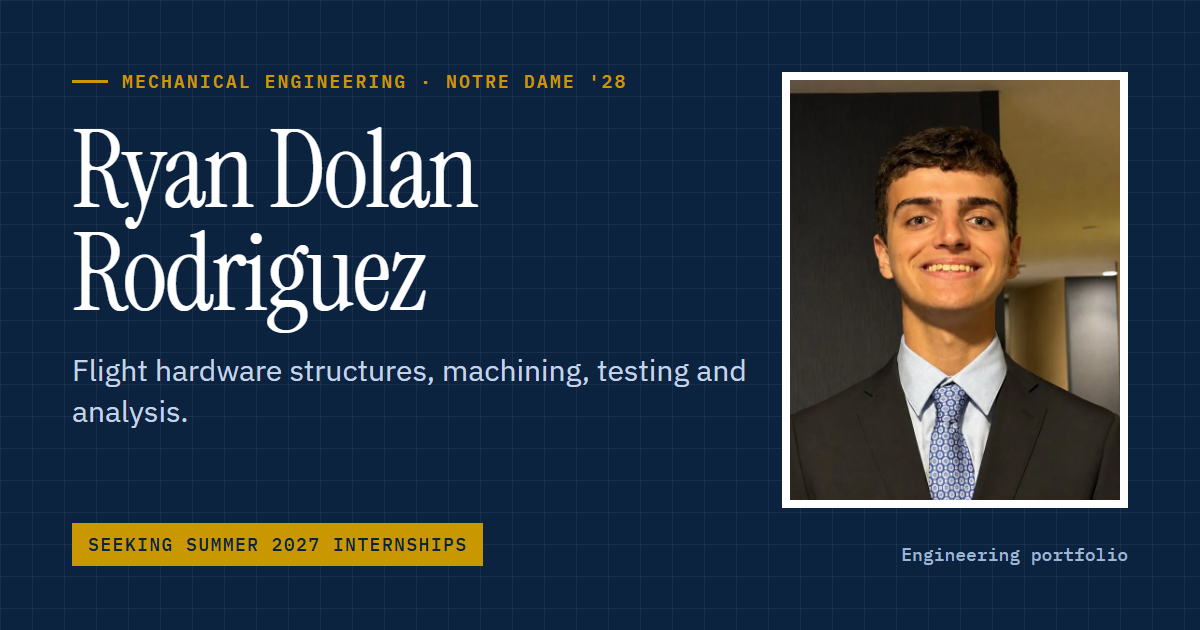
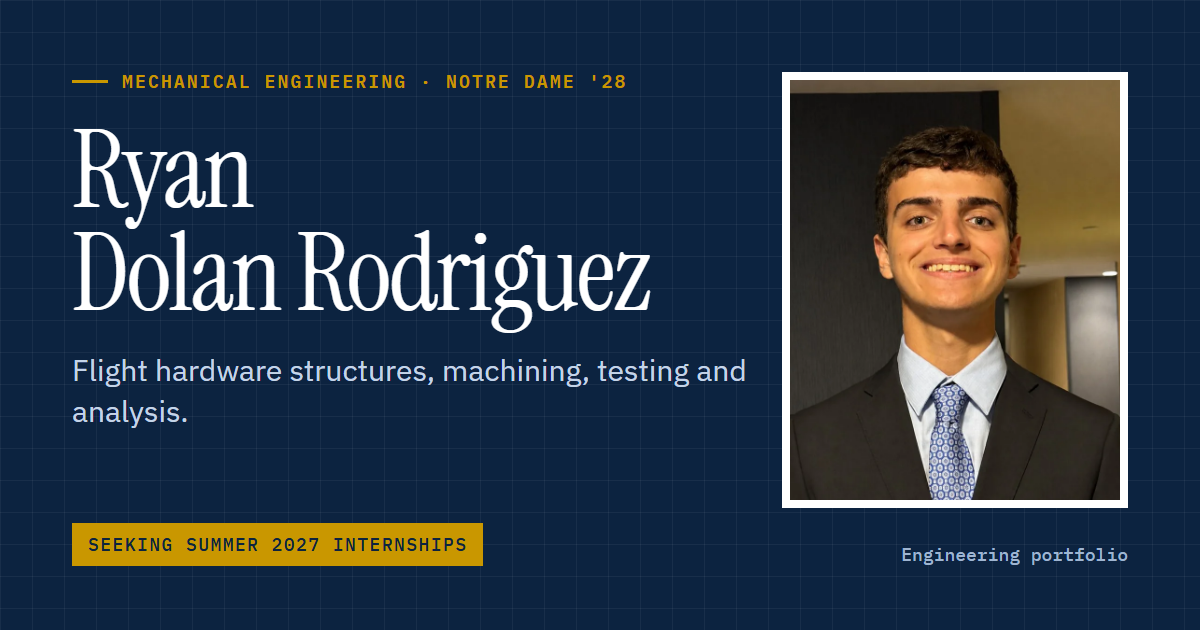
Hero name: 'Dolan Rodriguez' as one last name in the same font

Changed region(s): [[0.0617, 0.3619, 0.555, 0.5429], [0.2158, 0.181, 0.4008, 0.3317]]

diff --git a/index.html b/index.html
@@ -19,11 +19,11 @@
 <link rel="preconnect" href="https://fonts.googleapis.com">
 <link rel="preconnect" href="https://fonts.gstatic.com" crossorigin>
 <link href="https://fonts.googleapis.com/css2?family=IBM+Plex+Mono:wght@400;500;600&family=IBM+Plex+Sans:ital,wght@0,400;0,500;0,600;0,700;1,400&family=Instrument+Serif:ital@0;1&display=swap" rel="stylesheet">
-<link rel="stylesheet" href="css/site.css?v=202610132046">
-<meta name="build" content="202610132046">
+<link rel="stylesheet" href="css/site.css?v=202610132049">
+<meta name="build" content="202610132049">
 <script>document.documentElement.classList.add('js');
 // If this copy of the page is stale (browser cache), refresh it once from the server.
-(function(){var b='202610132046';try{if(sessionStorage.getItem('rd-refreshed')===b)return;}catch(e){}
+(function(){var b='202610132049';try{if(sessionStorage.getItem('rd-refreshed')===b)return;}catch(e){}
 fetch('version.json',{cache:'no-store'}).then(function(r){return r.json()}).then(function(d){
 if(d.v&&d.v!==b){try{sessionStorage.setItem('rd-refreshed',b)}catch(e){}
 fetch(location.href.split('#')[0],{cache:'reload'}).finally(function(){location.reload()})}}).catch(function(){})})();</script>
@@ -56,7 +56,7 @@ fetch(location.href.split('#')[0],{cache:'reload'}).finally(function(){location.
   <div class="hero__grid wrap">
     <div class="hero__text">
       <p class="eyebrow rise" style="--d:0">Mechanical Engineering · University of Notre Dame · Class of 2028</p>
-      <h1 class="hero__name rise" style="--d:1">Ryan Dolan <span class="hero__name-last">Rodriguez</span></h1>
+      <h1 class="hero__name rise" style="--d:1">Ryan <span class="hero__name-last">Dolan Rodriguez</span></h1>
       <p class="status rise" style="--d:3"><span class="status__dot" aria-hidden="true"></span>Seeking Summer 2027 internships</p>
       <div class="hero__cta rise" style="--d:4">
         <a class="btn btn--primary" href="Ryan_Dolan_Resume.pdf" target="_blank" rel="noopener">View résumé <span aria-hidden="true">↗</span></a>
@@ -489,6 +489,6 @@ fetch(location.href.split('#')[0],{cache:'reload'}).finally(function(){location.
   <button class="lightbox__nav lightbox__next" type="button" aria-label="Next figure">›</button>
 </dialog>
 
-<script src="js/site.js?v=202610132046" defer></script>
+<script src="js/site.js?v=202610132049" defer></script>
 </body>
 </html>

diff --git a/css/site.css b/css/site.css
@@ -62,7 +62,7 @@ ul,ol{margin:0; padding:0; list-style:none}
     var(--paper)}
 .hero__grid{display:grid; grid-template-columns:minmax(0,1fr) minmax(240px,340px); gap:clamp(28px,6vw,80px); align-items:end}
 .eyebrow{margin:0; font:500 13px/1.5 var(--mono); letter-spacing:.08em; text-transform:uppercase; color:var(--ink3)}
-.hero__name{font:400 clamp(56px,8.6vw,124px)/.92 var(--serif); letter-spacing:-.02em; color:var(--navy); margin:18px 0 0}
+.hero__name{font:400 clamp(50px,6.6vw,100px)/.95 var(--serif); letter-spacing:-.02em; color:var(--navy); margin:18px 0 0}
 .status{display:inline-flex; align-items:center; gap:10px; margin:24px 0 0; padding:8px 14px 8px 12px;
   background:var(--gold-soft); border:1px solid #e5d290; border-radius:999px; font:600 13px/1 var(--mono);
   letter-spacing:.06em; text-transform:uppercase; color:var(--navy)}
@@ -80,7 +80,7 @@ ul,ol{margin:0; padding:0; list-style:none}
 /* load animation, only when JS marks the page ready */
 .js .rise{opacity:0; transform:translateY(14px); animation:rise .7s cubic-bezier(.2,.7,.2,1) forwards; animation-delay:calc(var(--d)*80ms + 60ms)}
 @keyframes rise{to{opacity:1; transform:none}}
-.hero__name-last{display:block; font-style:italic; color:var(--navy2)}
+.hero__name-last{display:block; white-space:nowrap}
 
 @media (max-width:700px){.hero__grid{grid-template-columns:1fr} .hero__photo{max-width:300px; order:-1} .hero__name{margin-top:12px}}
 
